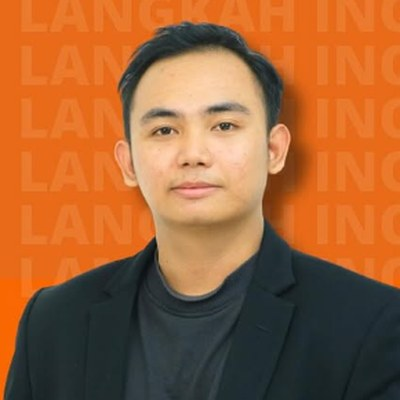
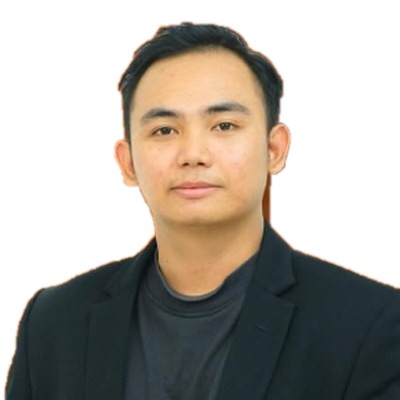
Background putih untuk foto tim, perbarui nama, tambah link pendaftaran oprec
- Foto Hafidz Ridha, Duni, Yuyun, dan Vira kini berlatar putih
- Nama: Yuyun Sanjaya, Vira Riana
- Berita oprec: pendaftaran melalui https://q.me-qr.com/zjg0mt9c

Claude-Session: https://claude.ai/code/session_01Kxrc59r49cdHqBKQhctGB6

diff --git a/lib/beritaLokal.js b/lib/beritaLokal.js
@@ -32,7 +32,7 @@ export const beritaLokal = [
     penulis: 'Tim LII',
     tanggal: '2026-11-15',
     gambar: '/berita/open-recruitment-2026.jpg',
-    desc: 'Langkah Inovasi Indonesia membuka open recruitment pengurus baru periode 2026–2029 bagi pemuda-pemudi terbaik Kalimantan Tengah. Pendaftaran berkas dibuka 2–30 November 2026.',
+    desc: 'Langkah Inovasi Indonesia membuka open recruitment pengurus baru periode 2026–2029 bagi pemuda-pemudi terbaik Kalimantan Tengah. Daftar melalui q.me-qr.com/zjg0mt9c, pendaftaran berkas dibuka 2–30 November 2026.',
     body: [
       p('Langkah Inovasi Indonesia (LII) membuka open recruitment pengurus baru untuk periode 2026–2029. Kesempatan ini terbuka bagi pemuda-pemudi terbaik Kalimantan Tengah yang ingin ambil peran, bukan hanya menjadi penonton, dalam gerakan pemuda untuk Kalteng Maju.'),
       p('Mengusung semangat "Berkarya dan Berdampak untuk Kalimantan Tengah", LII mengajak anak muda untuk tumbuh, berkontribusi, dan menjadi bagian dari tim yang menjalankan program riset, edukasi, dan pemberdayaan pemuda di Kalimantan Tengah.'),
@@ -54,7 +54,8 @@ export const beritaLokal = [
       li('Mulai masa kepengurusan baru: 22 Desember 2026'),
 
       h2('Cara Mendaftar'),
-      plink('Informasi dan tautan pendaftaran tersedia di bio Instagram ', '@langkahinovasiindonesia', 'https://www.instagram.com/langkahinovasiindonesia/', '. Untuk pertanyaan, hubungi narahubung Kak Gretha di 0895-6159-16589.'),
+      plink('Pendaftaran dapat dilakukan melalui tautan resmi Open Recruitment LII berikut: ', 'q.me-qr.com/zjg0mt9c', 'https://q.me-qr.com/zjg0mt9c', '. Buka tautan tersebut, lalu ikuti petunjuk dan lengkapi berkas pendaftaran sebelum 30 November 2026.'),
+      p('Untuk pertanyaan seputar pendaftaran, hubungi narahubung Kak Gretha di 0895-6159-16589.'),
       plink('Lihat juga ', 'pengumuman resmi di Instagram LII', 'https://www.instagram.com/p/DfpiDoDkjg4/', ', dan ikuti @kamufest.kalteng untuk kabar kegiatan kepemudaan lainnya.'),
       p('Jangan sampai ketinggalan! Ini saatnya kamu tumbuh, berkontribusi, dan menjadi bagian dari gerakan pemuda untuk Kalimantan Tengah. #BersamaKitaBerdampak'),
     ],

diff --git a/lib/timLokal.js b/lib/timLokal.js
@@ -3,6 +3,10 @@
 // Foto disimpan di folder public/tim/.
 // Hapus entri di sini kalau datanya sudah diperbarui langsung di Sanity Studio.
 export const timLokal = {
+  // Ketua Umum: foto dengan background putih
+  '6292d3f2-97ec-42e5-9e44-aefce2d20db8': {
+    foto: '/tim/hafidz-ridha.jpg',
+  },
   // Bendahara Umum (sebelumnya: Noorhana Sesar Sari, S.Akun)
   '56aca158-d4cb-42da-ab5c-92eec67a12e1': {
     nama: 'Diah Khairun Nisa',
@@ -27,18 +31,18 @@ export const timTambahan = [
   },
   {
     _id: 'lokal-tim-yuyun',
-    nama: 'Yuyun',
+    nama: 'Yuyun Sanjaya',
     peran: 'Kepala Bidang Public Relations',
-    inisial: 'YU',
+    inisial: 'YS',
     foto: '/tim/yuyun.jpg',
     profil: null,
     urutan: 7,
   },
   {
     _id: 'lokal-tim-vira',
-    nama: 'Vira',
+    nama: 'Vira Riana',
     peran: 'Head of Riset & Inovasi',
-    inisial: 'VI',
+    inisial: 'VR',
     foto: '/tim/vira.jpg',
     profil: null,
     urutan: 8,
